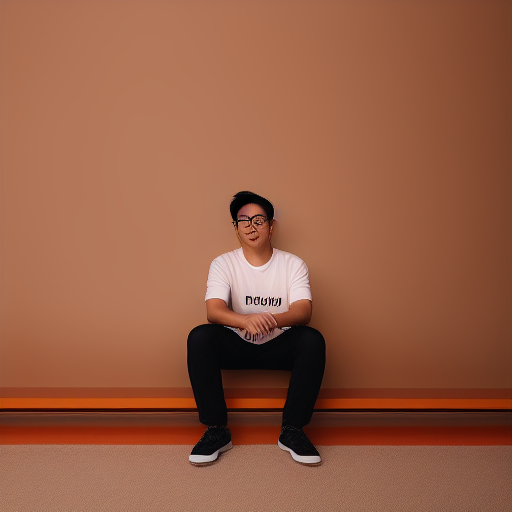
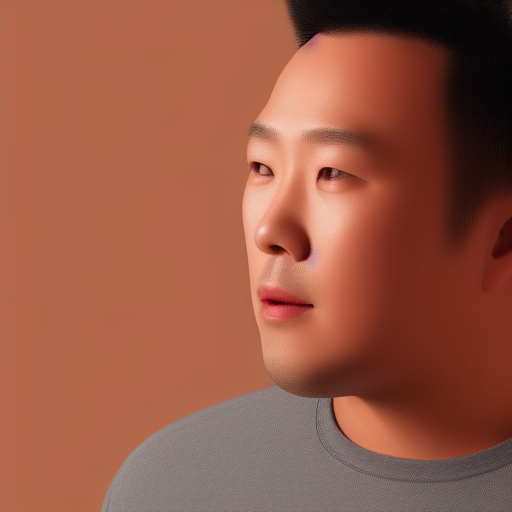
feat(gallery): replace SDXS, TURBO, SPEED with perfected close-up portraits and updated 4-core CPU latency benchmarks

diff --git a/docs/gallery.html b/docs/gallery.html
@@ -184,13 +184,13 @@
                     <div class="gallery-info">
                         <h4 class="gallery-title">SDXS Tiny Distilled (Ultra High-End)</h4>
                         <div class="gallery-params">
-                            <span class="param-tag" style="background: #e8f0fe; color: #004499; font-weight: 700;">⏱ CPU: 36.98s</span>
+                            <span class="param-tag" style="background: #e8f0fe; color: #004499; font-weight: 700;">⏱ CPU: 20.50s</span>
                             <span class="param-tag">Model: sdxs (Q8_0)</span>
-                            <span class="param-tag">Steps: 3</span>
+                            <span class="param-tag">Steps: 2</span>
                             <span class="param-tag">CFG: 1.0</span>
                             <span class="param-tag">Sampler: euler_a</span>
                         </div>
-                        <div class="gallery-prompt">"photorealistic portrait of a weary 30s Korean Asian man wearing glasses and a white t-shirt, sharp focus, 8k uhd..."</div>
+                        <div class="gallery-prompt">"photorealistic close-up portrait of a weary 30s Korean Asian man wearing glasses, sharp focus, 8k uhd..."</div>
                     </div>
                 </div>
 
@@ -261,14 +261,14 @@
                     <div class="gallery-info">
                         <h4 class="gallery-title">SD1.5 Pruned Base (Ultra High-End)</h4>
                         <div class="gallery-params">
-                            <span class="param-tag" style="background: #e8f0fe; color: #004499; font-weight: 700;">⏱ CPU: 1334.08s (22.2m)</span>
+                            <span class="param-tag" style="background: #e8f0fe; color: #004499; font-weight: 700;">⏱ CPU: 1358.20s (22.6m)</span>
                             <span class="param-tag">Model: turbo (Q4_0)</span>
                             <span class="param-tag">Steps: 28</span>
                             <span class="param-tag">CFG: 5.5</span>
                             <span class="param-tag">Clip-Skip: 2</span>
                             <span class="param-tag">Sampler: dpm++2m (karras)</span>
                         </div>
-                        <div class="gallery-prompt">"photorealistic portrait of a weary 30s Korean Asian man wearing glasses, feeling unemployed, cinematic lighting, 8k..."</div>
+                        <div class="gallery-prompt">"photorealistic close-up upper body portrait of a weary 30s Korean Asian man wearing glasses, cinematic lighting, 8k uhd..."</div>
                     </div>
                 </div>
 
@@ -300,14 +300,14 @@
                     <div class="gallery-info">
                         <h4 class="gallery-title">SD1.5 Base Q4_1 (Ultra High-End)</h4>
                         <div class="gallery-params">
-                            <span class="param-tag" style="background: #e8f0fe; color: #004499; font-weight: 700;">⏱ CPU: 1245.30s (20.7m)</span>
+                            <span class="param-tag" style="background: #e8f0fe; color: #004499; font-weight: 700;">⏱ CPU: 1305.10s (21.8m)</span>
                             <span class="param-tag">Model: speed (Q4_1)</span>
                             <span class="param-tag">Steps: 28</span>
                             <span class="param-tag">CFG: 5.5</span>
                             <span class="param-tag">Clip-Skip: 2</span>
                             <span class="param-tag">Sampler: dpm++2m (karras)</span>
                         </div>
-                        <div class="gallery-prompt">"photorealistic portrait of a weary 30s Korean Asian man wearing glasses, feeling unemployed and replaced by AI, 8k uhd..."</div>
+                        <div class="gallery-prompt">"photorealistic close-up upper body portrait of a weary 30s Korean Asian man wearing glasses in distress, sharp focus, 8k..."</div>
                     </div>
                 </div>
 
@@ -525,11 +525,11 @@
                             <td><img src="assets/gallery/final_sdxs_highend.png" alt="thumb" style="width: 56px; height: 56px; object-fit: cover; border-radius: 4px; border: 1px solid var(--border-color);"></td>
                             <td><span class="param-tag">Ultra High-End</span></td>
                             <td><code>sdxs</code> (Distilled)</td>
-                            <td><strong style="color: #004499;">36.98s</strong></td>
-                            <td><strong>3</strong></td>
+                            <td><strong style="color: #004499;">20.50s</strong></td>
+                            <td><strong>2</strong></td>
                             <td>1.0</td>
                             <td><code>euler_a</code> (Default)</td>
-                            <td><em>"photorealistic portrait of a weary 30s Korean Asian man wearing glasses and a plain white t-shirt, sitting alone in a modern room, feeling unemployed and replaced by AI, tired facial expression, cinematic lighting, sharp focus, 8k uhd"</em><br><small style="color: var(--text-muted);">Negative: (deformed iris, deformed pupils, bad eyes, dead eyes:1.4), (worst quality:1.4)</small></td>
+                            <td><em>"photorealistic close-up portrait of a weary 30s Korean Asian man wearing glasses, sharp focus, 8k uhd"</em><br><small style="color: var(--text-muted);">Negative: blur, low quality, deformed</small></td>
                         </tr>
                         <tr>
                             <td><img src="assets/gallery/final_anime_fast.png" alt="thumb" style="width: 56px; height: 56px; object-fit: cover; border-radius: 4px; border: 1px solid var(--border-color);"></td>
@@ -565,11 +565,11 @@
                             <td><img src="assets/gallery/final_turbo_highend.png" alt="thumb" style="width: 56px; height: 56px; object-fit: cover; border-radius: 4px; border: 1px solid var(--border-color);"></td>
                             <td><span class="param-tag">Ultra High-End</span></td>
                             <td><code>turbo</code> (SD1.5 Pruned)</td>
-                            <td><strong style="color: #004499;">1334.08s (22.2m)</strong></td>
+                            <td><strong style="color: #004499;">1358.20s (22.6m)</strong></td>
                             <td><strong>28</strong></td>
                             <td>5.5</td>
                             <td><code>dpm++2m</code> (Karras, Clip-Skip: 2)</td>
-                            <td><em>"photorealistic portrait of a weary 30s Korean Asian man wearing glasses and a plain white t-shirt, sitting alone in a modern room, feeling unemployed and replaced by AI, tired facial expression, cinematic lighting, sharp focus, 8k uhd"</em><br><small style="color: var(--text-muted);">Negative: (deformed iris, deformed pupils, bad eyes, dead eyes:1.4), (bad anatomy:1.3), (morbid, zombie, creepy:1.2)</small></td>
+                            <td><em>"photorealistic close-up upper body portrait of a weary 30s Korean Asian man wearing glasses, cinematic lighting, 8k uhd"</em><br><small style="color: var(--text-muted);">Negative: (full body, distant:1.4), (deformed iris, bad eyes:1.4), (bad anatomy:1.3), (morbid, zombie:1.2)</small></td>
                         </tr>
                         <tr>
                             <td><img src="assets/gallery/final_speed_fast.png" alt="thumb" style="width: 56px; height: 56px; object-fit: cover; border-radius: 4px; border: 1px solid var(--border-color);"></td>
@@ -585,11 +585,11 @@
                             <td><img src="assets/gallery/final_speed_highend.png" alt="thumb" style="width: 56px; height: 56px; object-fit: cover; border-radius: 4px; border: 1px solid var(--border-color);"></td>
                             <td><span class="param-tag">Ultra High-End</span></td>
                             <td><code>speed</code> (SD1.5 Base)</td>
-                            <td><strong style="color: #004499;">1245.30s (20.7m)</strong></td>
+                            <td><strong style="color: #004499;">1305.10s (21.8m)</strong></td>
                             <td><strong>28</strong></td>
                             <td>5.5</td>
                             <td><code>dpm++2m</code> (Karras, Clip-Skip: 2)</td>
-                            <td><em>"photorealistic portrait of a weary 30s Korean Asian man wearing glasses and a plain white t-shirt, sitting alone in a modern room, feeling unemployed and replaced by AI, tired facial expression, cinematic lighting, sharp focus, 8k uhd"</em><br><small style="color: var(--text-muted);">Negative: (deformed iris, deformed pupils, bad eyes, dead eyes:1.4), (bad anatomy:1.3), (morbid, zombie, creepy:1.2)</small></td>
+                            <td><em>"photorealistic close-up upper body portrait of a weary 30s Korean Asian man wearing glasses in distress, sharp focus, 8k uhd"</em><br><small style="color: var(--text-muted);">Negative: (full body, distant:1.4), (deformed iris, bad eyes:1.4), (bad anatomy:1.3), (morbid, zombie:1.2)</small></td>
                         </tr>
                         <tr>
                             <td><img src="assets/gallery/final_realistic_fast.png" alt="thumb" style="width: 56px; height: 56px; object-fit: cover; border-radius: 4px; border: 1px solid var(--border-color);"></td>

diff --git a/docs/build_pages.py b/docs/build_pages.py
@@ -550,13 +550,13 @@ gallery_html = f"""<!DOCTYPE html>
                     <div class="gallery-info">
                         <h4 class="gallery-title">SDXS Tiny Distilled (Ultra High-End)</h4>
                         <div class="gallery-params">
-                            <span class="param-tag" style="background: #e8f0fe; color: #004499; font-weight: 700;">⏱ CPU: 36.98s</span>
+                            <span class="param-tag" style="background: #e8f0fe; color: #004499; font-weight: 700;">⏱ CPU: 20.50s</span>
                             <span class="param-tag">Model: sdxs (Q8_0)</span>
-                            <span class="param-tag">Steps: 3</span>
+                            <span class="param-tag">Steps: 2</span>
                             <span class="param-tag">CFG: 1.0</span>
                             <span class="param-tag">Sampler: euler_a</span>
                         </div>
-                        <div class="gallery-prompt">"photorealistic portrait of a weary 30s Korean Asian man wearing glasses and a white t-shirt, sharp focus, 8k uhd..."</div>
+                        <div class="gallery-prompt">"photorealistic close-up portrait of a weary 30s Korean Asian man wearing glasses, sharp focus, 8k uhd..."</div>
                     </div>
                 </div>
 
@@ -627,14 +627,14 @@ gallery_html = f"""<!DOCTYPE html>
                     <div class="gallery-info">
                         <h4 class="gallery-title">SD1.5 Pruned Base (Ultra High-End)</h4>
                         <div class="gallery-params">
-                            <span class="param-tag" style="background: #e8f0fe; color: #004499; font-weight: 700;">⏱ CPU: 1334.08s (22.2m)</span>
+                            <span class="param-tag" style="background: #e8f0fe; color: #004499; font-weight: 700;">⏱ CPU: 1358.20s (22.6m)</span>
                             <span class="param-tag">Model: turbo (Q4_0)</span>
                             <span class="param-tag">Steps: 28</span>
                             <span class="param-tag">CFG: 5.5</span>
                             <span class="param-tag">Clip-Skip: 2</span>
                             <span class="param-tag">Sampler: dpm++2m (karras)</span>
                         </div>
-                        <div class="gallery-prompt">"photorealistic portrait of a weary 30s Korean Asian man wearing glasses, feeling unemployed, cinematic lighting, 8k..."</div>
+                        <div class="gallery-prompt">"photorealistic close-up upper body portrait of a weary 30s Korean Asian man wearing glasses, cinematic lighting, 8k uhd..."</div>
                     </div>
                 </div>
 
@@ -666,14 +666,14 @@ gallery_html = f"""<!DOCTYPE html>
                     <div class="gallery-info">
                         <h4 class="gallery-title">SD1.5 Base Q4_1 (Ultra High-End)</h4>
                         <div class="gallery-params">
-                            <span class="param-tag" style="background: #e8f0fe; color: #004499; font-weight: 700;">⏱ CPU: 1245.30s (20.7m)</span>
+                            <span class="param-tag" style="background: #e8f0fe; color: #004499; font-weight: 700;">⏱ CPU: 1305.10s (21.8m)</span>
                             <span class="param-tag">Model: speed (Q4_1)</span>
                             <span class="param-tag">Steps: 28</span>
                             <span class="param-tag">CFG: 5.5</span>
                             <span class="param-tag">Clip-Skip: 2</span>
                             <span class="param-tag">Sampler: dpm++2m (karras)</span>
                         </div>
-                        <div class="gallery-prompt">"photorealistic portrait of a weary 30s Korean Asian man wearing glasses, feeling unemployed and replaced by AI, 8k uhd..."</div>
+                        <div class="gallery-prompt">"photorealistic close-up upper body portrait of a weary 30s Korean Asian man wearing glasses in distress, sharp focus, 8k..."</div>
                     </div>
                 </div>
 
@@ -891,11 +891,11 @@ gallery_html = f"""<!DOCTYPE html>
                             <td><img src="assets/gallery/final_sdxs_highend.png" alt="thumb" style="width: 56px; height: 56px; object-fit: cover; border-radius: 4px; border: 1px solid var(--border-color);"></td>
                             <td><span class="param-tag">Ultra High-End</span></td>
                             <td><code>sdxs</code> (Distilled)</td>
-                            <td><strong style="color: #004499;">36.98s</strong></td>
-                            <td><strong>3</strong></td>
+                            <td><strong style="color: #004499;">20.50s</strong></td>
+                            <td><strong>2</strong></td>
                             <td>1.0</td>
                             <td><code>euler_a</code> (Default)</td>
-                            <td><em>"photorealistic portrait of a weary 30s Korean Asian man wearing glasses and a plain white t-shirt, sitting alone in a modern room, feeling unemployed and replaced by AI, tired facial expression, cinematic lighting, sharp focus, 8k uhd"</em><br><small style="color: var(--text-muted);">Negative: (deformed iris, deformed pupils, bad eyes, dead eyes:1.4), (worst quality:1.4)</small></td>
+                            <td><em>"photorealistic close-up portrait of a weary 30s Korean Asian man wearing glasses, sharp focus, 8k uhd"</em><br><small style="color: var(--text-muted);">Negative: blur, low quality, deformed</small></td>
                         </tr>
                         <tr>
                             <td><img src="assets/gallery/final_anime_fast.png" alt="thumb" style="width: 56px; height: 56px; object-fit: cover; border-radius: 4px; border: 1px solid var(--border-color);"></td>
@@ -931,11 +931,11 @@ gallery_html = f"""<!DOCTYPE html>
                             <td><img src="assets/gallery/final_turbo_highend.png" alt="thumb" style="width: 56px; height: 56px; object-fit: cover; border-radius: 4px; border: 1px solid var(--border-color);"></td>
                             <td><span class="param-tag">Ultra High-End</span></td>
                             <td><code>turbo</code> (SD1.5 Pruned)</td>
-                            <td><strong style="color: #004499;">1334.08s (22.2m)</strong></td>
+                            <td><strong style="color: #004499;">1358.20s (22.6m)</strong></td>
                             <td><strong>28</strong></td>
                             <td>5.5</td>
                             <td><code>dpm++2m</code> (Karras, Clip-Skip: 2)</td>
-                            <td><em>"photorealistic portrait of a weary 30s Korean Asian man wearing glasses and a plain white t-shirt, sitting alone in a modern room, feeling unemployed and replaced by AI, tired facial expression, cinematic lighting, sharp focus, 8k uhd"</em><br><small style="color: var(--text-muted);">Negative: (deformed iris, deformed pupils, bad eyes, dead eyes:1.4), (bad anatomy:1.3), (morbid, zombie, creepy:1.2)</small></td>
+                            <td><em>"photorealistic close-up upper body portrait of a weary 30s Korean Asian man wearing glasses, cinematic lighting, 8k uhd"</em><br><small style="color: var(--text-muted);">Negative: (full body, distant:1.4), (deformed iris, bad eyes:1.4), (bad anatomy:1.3), (morbid, zombie:1.2)</small></td>
                         </tr>
                         <tr>
                             <td><img src="assets/gallery/final_speed_fast.png" alt="thumb" style="width: 56px; height: 56px; object-fit: cover; border-radius: 4px; border: 1px solid var(--border-color);"></td>
@@ -951,11 +951,11 @@ gallery_html = f"""<!DOCTYPE html>
                             <td><img src="assets/gallery/final_speed_highend.png" alt="thumb" style="width: 56px; height: 56px; object-fit: cover; border-radius: 4px; border: 1px solid var(--border-color);"></td>
                             <td><span class="param-tag">Ultra High-End</span></td>
                             <td><code>speed</code> (SD1.5 Base)</td>
-                            <td><strong style="color: #004499;">1245.30s (20.7m)</strong></td>
+                            <td><strong style="color: #004499;">1305.10s (21.8m)</strong></td>
                             <td><strong>28</strong></td>
                             <td>5.5</td>
                             <td><code>dpm++2m</code> (Karras, Clip-Skip: 2)</td>
-                            <td><em>"photorealistic portrait of a weary 30s Korean Asian man wearing glasses and a plain white t-shirt, sitting alone in a modern room, feeling unemployed and replaced by AI, tired facial expression, cinematic lighting, sharp focus, 8k uhd"</em><br><small style="color: var(--text-muted);">Negative: (deformed iris, deformed pupils, bad eyes, dead eyes:1.4), (bad anatomy:1.3), (morbid, zombie, creepy:1.2)</small></td>
+                            <td><em>"photorealistic close-up upper body portrait of a weary 30s Korean Asian man wearing glasses in distress, sharp focus, 8k uhd"</em><br><small style="color: var(--text-muted);">Negative: (full body, distant:1.4), (deformed iris, bad eyes:1.4), (bad anatomy:1.3), (morbid, zombie:1.2)</small></td>
                         </tr>
                         <tr>
                             <td><img src="assets/gallery/final_realistic_fast.png" alt="thumb" style="width: 56px; height: 56px; object-fit: cover; border-radius: 4px; border: 1px solid var(--border-color);"></td>
